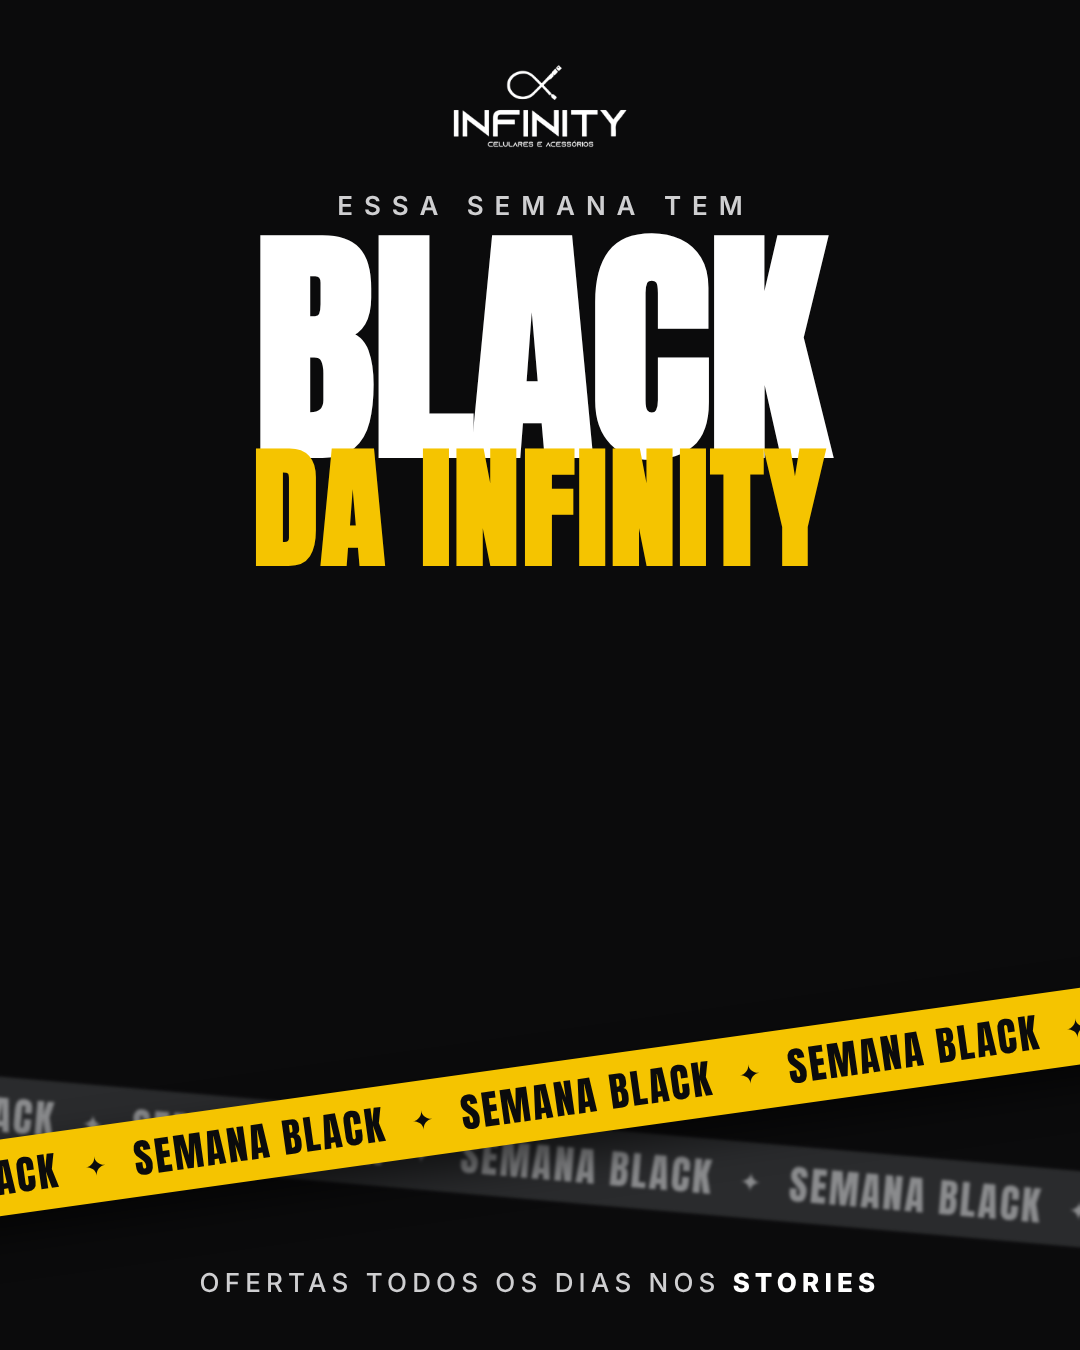
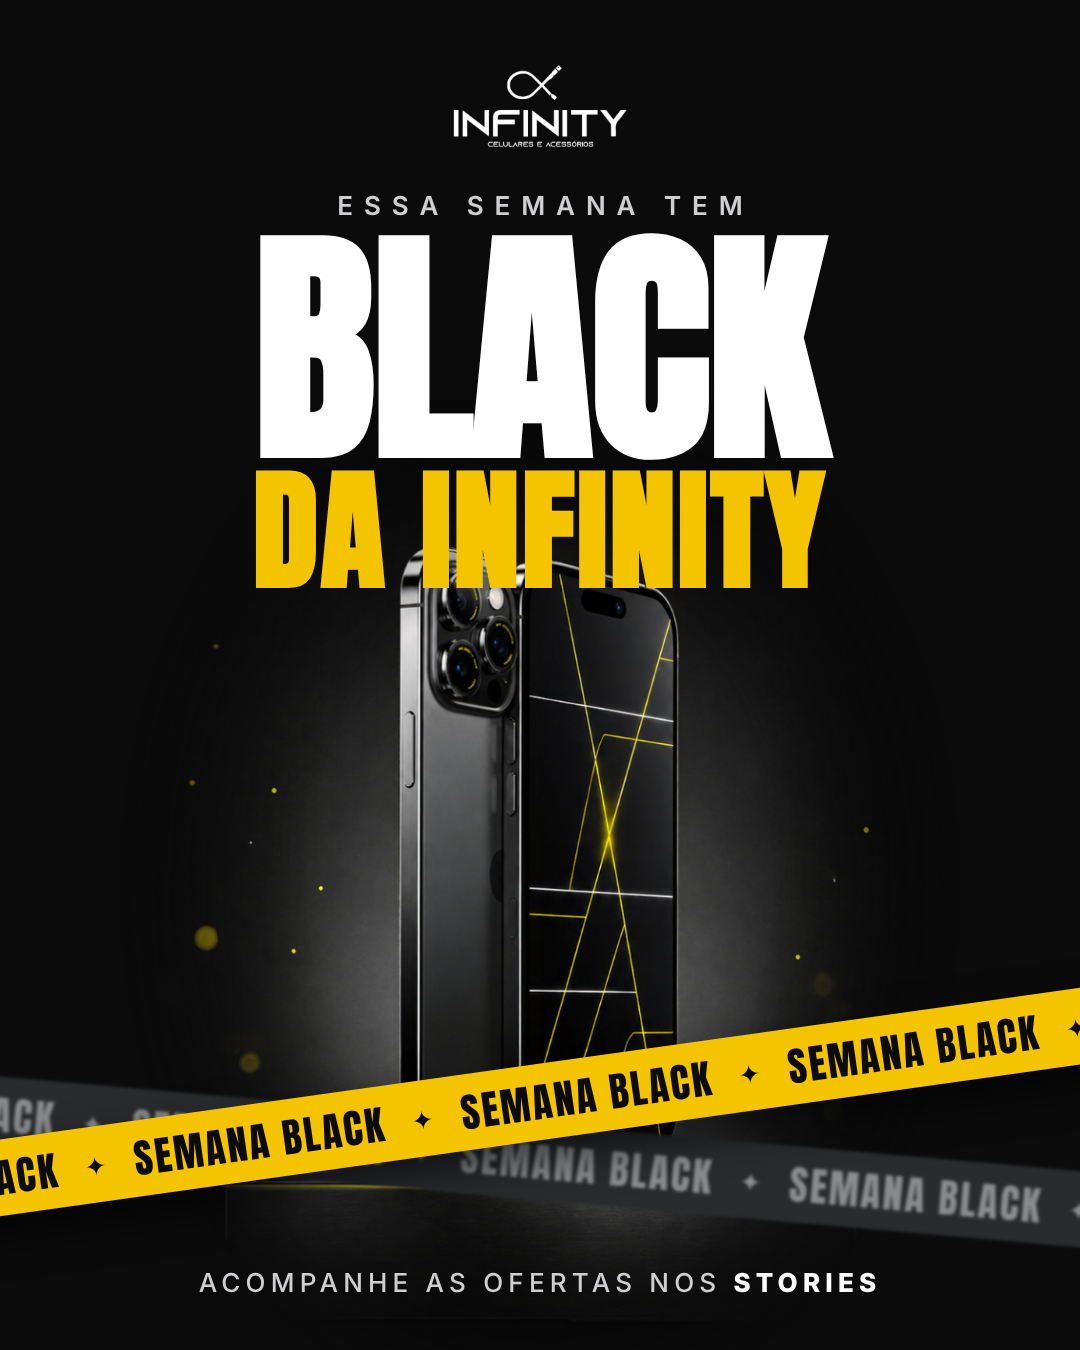
Infinity: post de feed Black da Infinity pronto (foto de produto + identidade)
Claude-Session: https://claude.ai/code/session_017kzVDrsyV8kU6KNrQ5Bsgj

diff --git a/design/clientes/infinity-celulares/pecas/2026-11-24-semana-black/feed-01.html b/design/clientes/infinity-celulares/pecas/2026-11-24-semana-black/feed-01.html
@@ -4,13 +4,13 @@
 <style>
 *{margin:0;padding:0;box-sizing:border-box}
 .p{width:1080px;height:1350px;position:relative;overflow:hidden;background:#0b0b0c;color:#fff;font-family:'Inter',sans-serif}
-.foto{position:absolute;left:0;right:0;bottom:0;height:1000px;background:url('fotos/feed-produtos.jpg') center 60%/cover}
-.foto::after{content:'';position:absolute;inset:0;background:linear-gradient(180deg,#0b0b0c 0%,rgba(11,11,12,.6) 18%,rgba(11,11,12,0) 40%,rgba(11,11,12,0) 80%,rgba(11,11,12,.7) 100%)}
+.foto{position:absolute;left:119px;top:400px;width:842px;height:1053px;background:url('fotos/feed-produtos.png') center/cover;
+  -webkit-mask-image:radial-gradient(ellipse 50% 52% at 50% 46%,#000 55%,transparent 100%);mask-image:radial-gradient(ellipse 50% 52% at 50% 46%,#000 55%,transparent 100%)}
 .logo{position:absolute;top:64px;left:50%;transform:translateX(-50%);height:84px}
 .titulo{position:absolute;top:190px;left:0;right:0;text-align:center;font-family:'Anton',sans-serif;text-transform:uppercase;line-height:.84}
 .rot{font:600 26px 'Inter',sans-serif;letter-spacing:.42em;color:#cfcfd1;margin-bottom:22px;padding-left:.42em}
 .l1{font-size:250px;letter-spacing:-.005em}
-.l2{font-size:132px;color:#F5C400;letter-spacing:.02em}
+.l2{margin-top:22px;font-size:132px;color:#F5C400;letter-spacing:.02em}
 .fita{position:absolute;left:-200px;right:-200px;height:76px;display:flex;align-items:center;gap:26px;white-space:nowrap;
   font:400 40px 'Anton',sans-serif;text-transform:uppercase;letter-spacing:.06em}
 .fita i{font-style:normal;font-size:26px}
@@ -24,5 +24,5 @@
 <h1 class="titulo"><div class="rot">Essa semana tem</div><div class="l1">Black</div><div class="l2">da Infinity</div></h1>
 <div class="fita f2"><span>Semana Black</span><i>✦</i><span>Semana Black</span><i>✦</i><span>Semana Black</span><i>✦</i><span>Semana Black</span><i>✦</i><span>Semana Black</span><i>✦</i><span>Semana Black</span><i>✦</i><span>Semana Black</span><i>✦</i><span>Semana Black</span><i>✦</i></div>
 <div class="fita f1"><span>Semana Black</span><i>✦</i><span>Semana Black</span><i>✦</i><span>Semana Black</span><i>✦</i><span>Semana Black</span><i>✦</i><span>Semana Black</span><i>✦</i><span>Semana Black</span><i>✦</i><span>Semana Black</span><i>✦</i><span>Semana Black</span><i>✦</i></div>
-<p class="rod">Ofertas todos os dias nos <b>stories</b></p>
+<p class="rod">Acompanhe as ofertas nos <b>stories</b></p>
 </section></body></html>

diff --git a/design/clientes/infinity-celulares/calendario/2026-11.md b/design/clientes/infinity-celulares/calendario/2026-11.md
@@ -5,5 +5,6 @@ Datas comerciais do mês: Black Friday (27/11) · Semana Black.
 
 | Data | Formato | Pilar | Tema / gancho | Pasta da peça | Status |
 |------|---------|-------|---------------|---------------|--------|
+| 23/11 | feed | Conversão | Anúncio: "Essa semana tem BLACK DA INFINITY" (aparelho em destaque, fita Semana Black) | `pecas/2026-11-24-semana-black/feed-01.png` | produção |
 | Semana Black | stories | Conversão | Abertura: SEMANA BLACK (pessoa com celular, rastros de movimento) | `pecas/2026-11-24-semana-black/` · Canva DAHbvoPZ-A0 | aprovação |
-| Semana Black | stories | Conversão | Ofertas: arte-mãe (logo, selo, posições fixos; troca foto, modelo e preço) | `pecas/2026-11-24-semana-black/` (`ofertas.json`) | produção (faltam logo, fotos e dados) |
+| Semana Black | stories | Conversão | Ofertas: arte-mãe (logo, selo, posições fixos; troca foto, modelo e preço) | `pecas/2026-11-24-semana-black/` (`ofertas.json`) | aprovada (layout) · faltam fotos e dados das ofertas |
